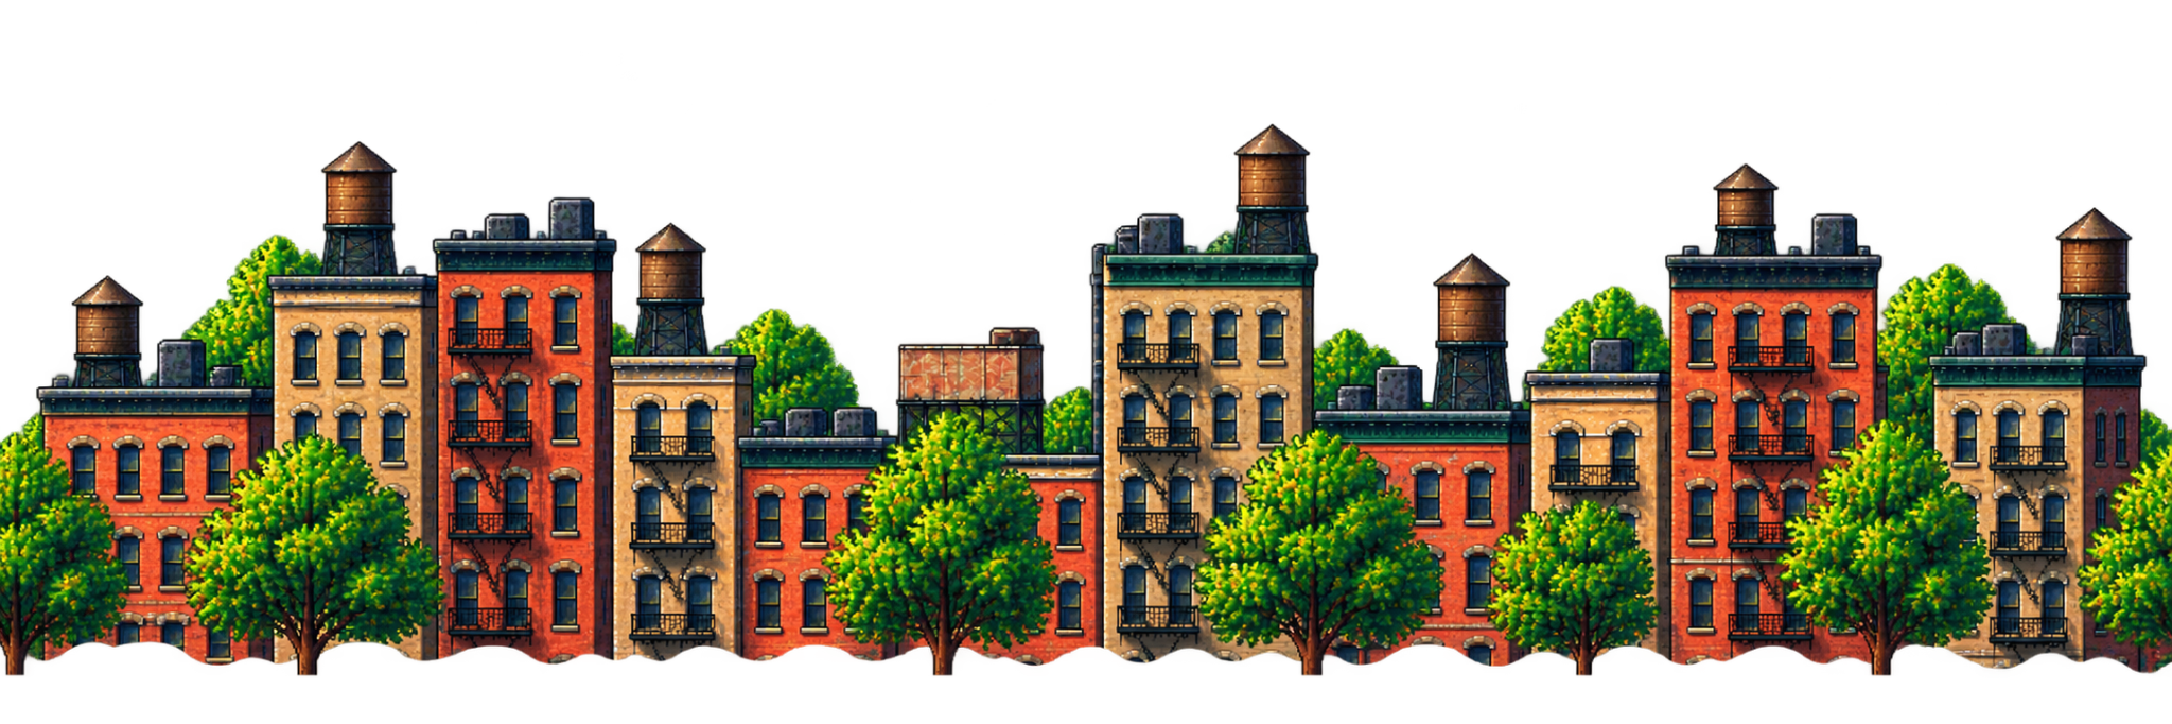
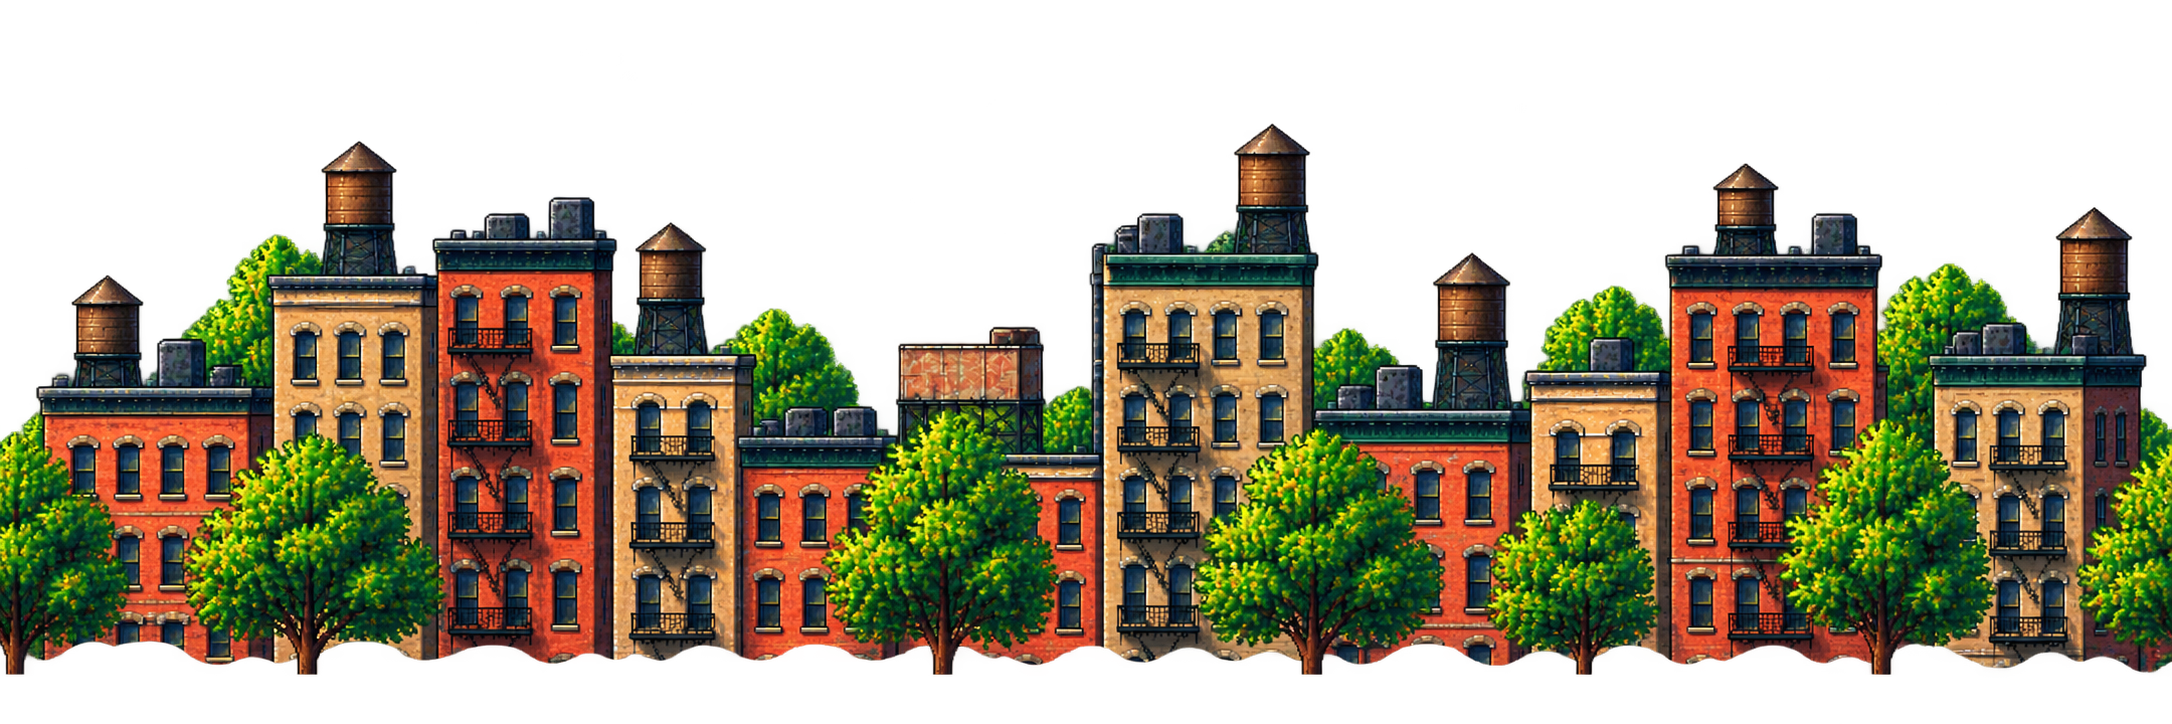
Restore NA03 assets from ZIP originals

diff --git a/src/js/game-runtime.js b/src/js/game-runtime.js
@@ -1402,9 +1402,9 @@ const ASSET_SOURCES={
  na02Far:PHASE8_PILOT?"../assets/phase8-validation/north-america/NA02_BG_DISTANT_MOUNTAINS.png?v=259b8f38-verified":"../assets/worlds/north-america/NA02_BG_DISTANT_MOUNTAINS.png",
  na02Mid:PHASE8_PILOT?"../assets/phase8-validation/north-america/NA02_BG_MID_PINES.png?v=cc4a6f43-verified":"../assets/worlds/north-america/NA02_BG_MID_PINES.png",
  na02Ground:PHASE8_PILOT?"../assets/phase8-validation/north-america/NA02_GROUND_TRAIL.png?v=f6ada52c-verified":"../assets/worlds/north-america/NA02_GROUND_TRAIL.png",
- na03Far:PHASE8_PILOT?"../assets/phase8-validation/north-america/NA03_BG_DISTANT_NYC.png?v=c91146de":"../assets/worlds/north-america/NA03_BG_DISTANT_NYC.png",
- na03Mid:PHASE8_PILOT?"../assets/phase8-validation/north-america/NA03_BG_MID_CITY.png?v=b1a0be3d":"../assets/worlds/north-america/NA03_BG_MID_CITY.png",
- na03Ground:PHASE8_PILOT?"../assets/phase8-validation/north-america/NA03_GROUND_CITY.png?v=e1dd4372":"../assets/worlds/north-america/NA03_GROUND_CITY.png",
+ na03Far:PHASE8_PILOT?"../assets/phase8-validation/north-america/NA03_BG_DISTANT_NYC.png?v=be8f72c6":"../assets/worlds/north-america/NA03_BG_DISTANT_NYC.png",
+ na03Mid:PHASE8_PILOT?"../assets/phase8-validation/north-america/NA03_BG_MID_CITY.png?v=3ea3319a":"../assets/worlds/north-america/NA03_BG_MID_CITY.png",
+ na03Ground:PHASE8_PILOT?"../assets/phase8-validation/north-america/NA03_GROUND_CITY.png?v=c91ddde0":"../assets/worlds/north-america/NA03_GROUND_CITY.png",
  far:PHASE8_PILOT?"../assets/phase8-validation/north-america/NA01_BG_DISTANT_MESAS.png":"../assets/worlds/north-america/NA01_BG_DISTANT_MESAS.png",
  clouds:"../assets/shared/NA_CLOUD_LAYER.png"
 ,

diff --git a/docs/PHASE8_LANDSCAPE_PROMPT_MANIFEST.md b/docs/PHASE8_LANDSCAPE_PROMPT_MANIFEST.md
@@ -111,7 +111,7 @@ Create the GROUND gameplay layer on a transparent 2172 x 724 canvas. Author one 
 - Reference: `assets-original/current-generated/NA-assets/NA03_BG_DISTANT_NYC.png`
 - Candidate: `assets/phase8-validation/north-america/NA03_BG_DISTANT_NYC.png`
 - Status: INTERNAL QA COMPLETE — pending integrated-stage user acceptance
[2 lines of base64/hex data omitted]
 - Layer directive: FAR
 - Stage lock: Preserve the blue-sky Manhattan waterfront panorama, recognizable Empire State Building emphasis, varied distant skyscrapers and blue water band. Retain the approved skyline density and scale; do not add close brownstones, street furniture, clouds or gameplay pavement.
 
@@ -120,7 +120,7 @@ Create the GROUND gameplay layer on a transparent 2172 x 724 canvas. Author one 
 - Reference: `assets-original/current-generated/NA-assets/NA03_BG_MID_CITY.png`
 - Candidate: `assets/phase8-validation/north-america/NA03_BG_MID_CITY.png`
 - Status: INTERNAL QA COMPLETE — pending integrated-stage user acceptance
[2 lines of base64/hex data omitted]
 - Layer directive: MID
 - Stage lock: Preserve the row of varied brick brownstones and apartment buildings, rooftop water tanks/chimneys, street trees and warm urban palette. Keep the recognizable neighborhood silhouette and transparent sky; do not include the distant skyline, playable sidewalk or hazards.
 
@@ -129,7 +129,7 @@ Create the GROUND gameplay layer on a transparent 2172 x 724 canvas. Author one 
 - Reference: `assets-original/current-generated/NA-assets/NA03_GROUND_CITY.png`
 - Candidate: `assets/phase8-validation/north-america/NA03_GROUND_CITY.png`
 - Status: INTERNAL QA COMPLETE — pending integrated-stage user acceptance
[2 lines of base64/hex data omitted]
 - Layer directive: GROUND
 - Stage lock: Preserve the level gray sidewalk slabs, curb edge, dark masonry/substructure and occasional restrained weeds. Maintain a clean urban running surface and continuous depth; do not add buildings, road traffic, street props or hazards.
 

diff --git a/docs/CURRENT_STATUS.md b/docs/CURRENT_STATUS.md
@@ -54,9 +54,9 @@ Production CI checks the production/development dependency boundary, syntax for 
 - cold first-load optimization / staged asset loading
 
 ## Next production step
-NA01 and NA02 landscape sets are approved. Dependent character/hazard grounding and later configuration calibration remain intentionally deferred until landscape generation is complete. The NA03 FAR/MID/GROUND set has completed internal reconstruction, PNG-integrity, geometry, wrap and source-composite QA and is pending complete-stage Git integration, deployed Design/Test/Game QA and one final user acceptance gate. It is not user-approved yet.
+NA01 and NA02 landscape sets are approved. Dependent character/hazard grounding and later configuration calibration remain intentionally deferred until landscape generation is complete. NA03 is pending corrected complete-stage Git integration, deployed Design/Test/Game QA and one final user acceptance gate. It is not user-approved yet.
 
-The original NA03 generation outputs survived a conversation/workspace handoff, but the first normalized local candidates did not. The user explicitly authorized deterministic recovery from those surviving outputs. The reconstructed 2172x724 candidates now carry new documented hashes; the earlier uncommitted hashes remain historical evidence and must not be represented as the recovered bytes.
+The first NA03 recovery deployment used image-attachment proxy copies that had been resized in transit. The user supplied the actual generated files in a ZIP, preserving their true dimensions and bytes. FAR and MID now use the ZIP originals directly at 2172x724. GROUND is normalized from the true 2170x725 ZIP original to the required 2172x724 canvas with its first nontransparent row at source Y=393 and terrain continuing through Y=723. The proxy-derived hashes and cache keys are superseded.
 
 Current pilot QA evidence: NA01's yellow legacy seam, red rendered GROUND surface and cyan rendered MID base coincide at canonical Y=410, so the cyan guide (drawn last) visually covers the other two. This is expected alignment, not a missing ground guide. Legacy NA02 retains separated calibration values, so its three evidence lines remain visibly distinct.
 

diff --git a/docs/DECISION_LOG.md b/docs/DECISION_LOG.md
@@ -143,3 +143,13 @@ The lost NA03 candidates could not be recovered byte-for-byte from the surviving
[3 lines of base64/hex data omitted]
+
+## 2026-09-18 — NA03 proxy-derived recovery superseded by ZIP originals
+
+The first NA03 recovery used copies produced by the chat image-attachment pipeline. Those workspace copies measured 2048 pixels wide even though the user's true files measured 2172x724 for FAR/MID and 2170x725 for GROUND. The user identified that the deployed GROUND was not the intended asset and supplied all three originals inside a ZIP so image-transfer resizing could not alter them.
+
+The proxy-derived NA03 files and their hashes above are superseded and are not approved assets. FAR and MID are restored byte-for-byte from the ZIP originals. GROUND is reconstructed only from the true 2170x725 ZIP original: nearest-neighbor normalization to 2172x724 preserves the pixel-art treatment, followed by a vertical translation that maps the first nontransparent row from Y=233 to the contract surface Y=393 and retains terrain through Y=723. All three remain pending integrated-stage user acceptance.
+
[3 lines of base64/hex data omitted]
